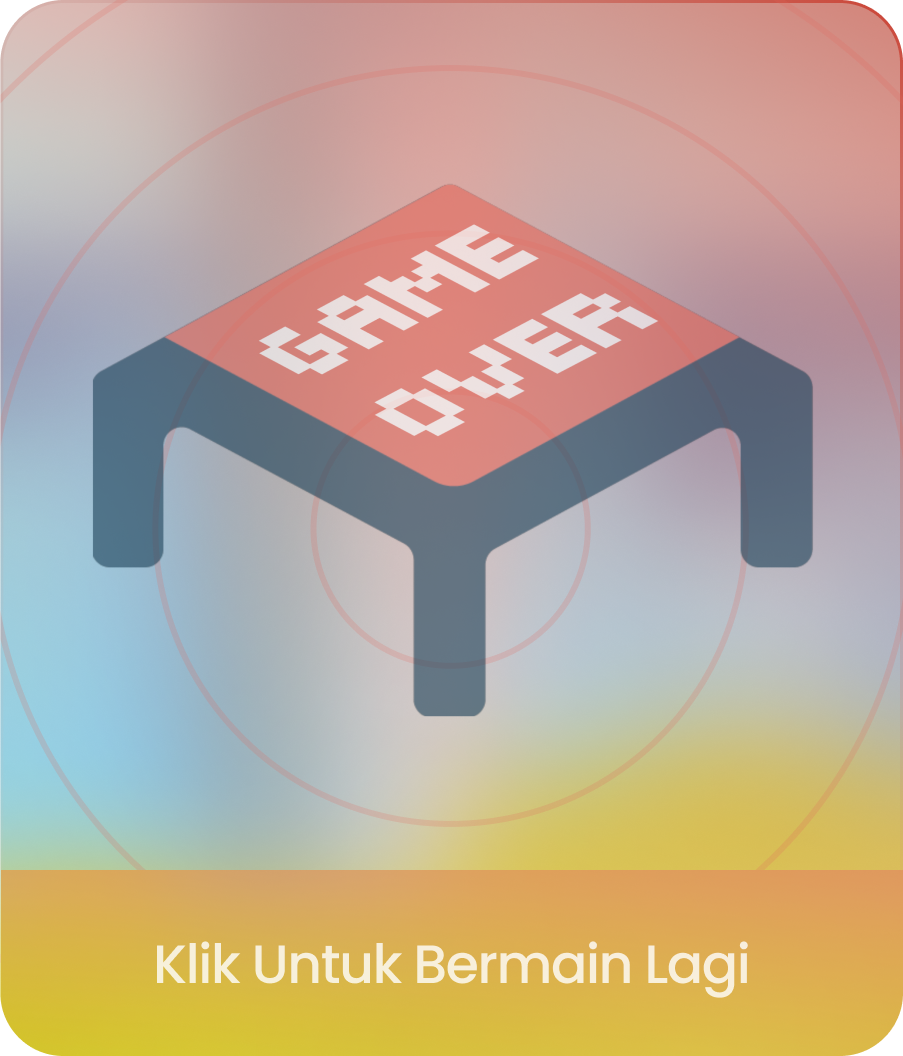
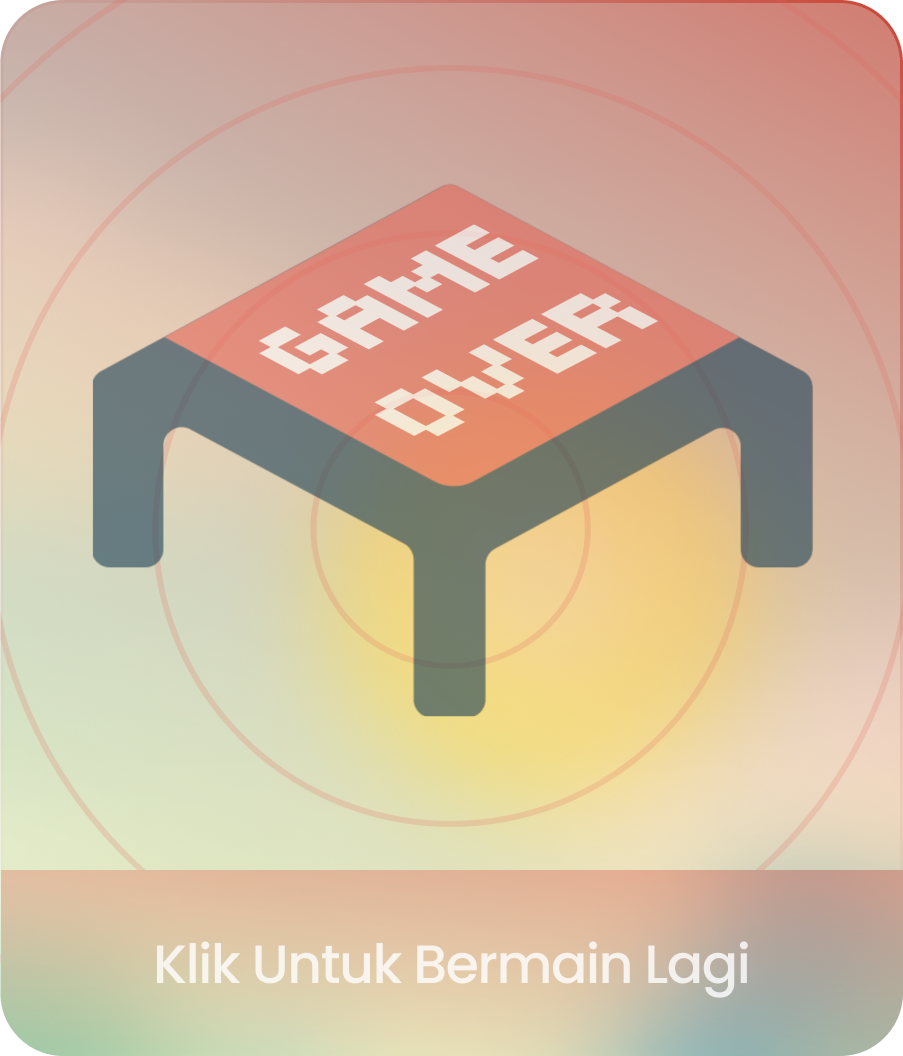
update background

diff --git a/game.js b/game.js
@@ -3,7 +3,7 @@ window.onload = function() {
 	// var innerHeight = window.innerHeight;
 	// var gameRatio = innerWidth/innerHeight;	
 	// var game = new Phaser.Game(Math.floor(480*gameRatio), 480, Phaser.CANVAS);	
-	var game = new Phaser.Game(1000, 600, Phaser.CANVAS);	
+	var game = new Phaser.Game(1000, 600, Phaser.AUTO);	
 	var ninja;
 	var bg;
 	var ninjaGravity = 800;
@@ -35,13 +35,13 @@ window.onload = function() {
 			game.load.image("ninja-idle", "assets/image/kitty-idle.png"); 
 			game.load.image("ninja-jump", "assets/image/kitty-jump.png"); 
 			game.load.image("ninja-die", "assets/image/kitty-die.png"); 
-			game.load.image("pole", "assets/image/ground.png");
+			game.load.image("pole", "assets/image/groundKittyNinja.png");
             game.load.image("powerbar", "assets/image/powerbar.png");
             game.load.image("bg", "assets/image/background2.png");
             game.load.image("gameOverImage", "assets/image/gameOver.png");
 
 			game.load.audio("bgmusic", "assets/audio/bgmusic.mp3");
-			game.load.audio("jumpSFX", "assets/audio/jump.mp3");
+			game.load.audio("jumpSFX", "assets/audio/jumpKittyNinja.mp3");
 			game.load.audio("dieSFX", "assets/audio/die.mp3");
 			game.load.audio("punchSFX", "assets/audio/punch.mp3");
 		},
@@ -71,13 +71,13 @@ window.onload = function() {
 			updateScore();
 			game.stage.backgroundColor = "#87CEEB";
 			game.physics.startSystem(Phaser.Physics.ARCADE);
-			ninja = game.add.sprite(150,0,"ninja-idle");
+			ninja = game.add.sprite(200,0,"ninja-idle");
 			ninja.anchor.set(0.5);
 			ninja.lastPole = 1;
 			game.physics.arcade.enable(ninja);              
 			ninja.body.gravity.y = ninjaGravity;
 			game.input.onDown.add(prepareToJump, this);
-			addPole(150);
+			addPole(200);
 			jumpButton = game.input.keyboard.addKey(Phaser.Keyboard.SPACEBAR);
 			
 		},
@@ -86,7 +86,7 @@ window.onload = function() {
 			if(ninja.y>game.height && ninja.y < 610){
 				die();
 			}
-			else if(ninja.y>game.height && ninja.y < 630){
+			else if(ninja.y>game.height && ninja.y < 620){
 				die();
 			}
 		}
@@ -110,7 +110,6 @@ window.onload = function() {
 	          powerTween = game.add.tween(powerBar).to({
 			   width:100
 			}, 1000, "Linear",true); 
-
 	          game.input.onDown.remove(prepareToJump, this);
 	          game.input.onUp.add(jump, this);
           }        	
@@ -155,7 +154,9 @@ window.onload = function() {
     	gameOverImage.inputEnabled = true;
 		gameOverImage.width = 300;
 		gameOverImage.height = 350;
-		gameOverImage.events.onInputDown.add(playAgain, this);			
+		gameOverImage.events.onInputDown.add(playAgain, this);		
+		console.log(ninja.y)	
+
 	}
 	function playAgain(){
 		game.state.start("Play");
@@ -171,6 +172,7 @@ window.onload = function() {
 			}
 			ninja.loadTexture('ninja-idle');
 			var poleDiff = p.poleNumber-n.lastPole;
+			// this.body.velocit3y.x = 100;
 			if(poleDiff>0){
 				jumpSFX.stop()
 				if(poleDiff > 2){
@@ -195,11 +197,13 @@ window.onload = function() {
 		}
 		else{
 			ninjaFallingDown = true;
-			punchSFX.play()
 			poleGroup.forEach(function(item) {
 				item.body.velocity.x = 0;		
 				ninja.loadTexture('ninja-die');	
 			});
+			if(ninja.y < game.height){
+				punchSFX.play()
+			}
 		}			
 	}
 	Pole = function (game, x, y) {

diff --git a/index.html b/index.html
@@ -3,6 +3,8 @@
 	<head>
           <script src = "game.js"></script>
           <script src="phaser.min.js"></script>
+          <link rel="icon" type="image/x-icon" href="assets/image/WebIcon.ico">
+          <title>Kitty Ninja</title>
 
           <style>
                body{
